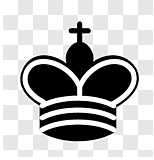
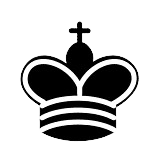
Modificação das Imagens
Trabalho finalizado.

diff --git a/EstudoCSS/xadrez/grid.html b/EstudoCSS/xadrez/grid.html
@@ -8,23 +8,23 @@
 </head>
 <body>
     <div class="principal">
-        <div id="imagemBranca" class="divInterna"><img src="Imagens/img_5terre.jpg">a8</div>
-        <div id="imagemPreta" class="divInterna"><img src="Imagens/img_forest.jpg">b8</div>
-        <div id="imagemBranca" class="divInterna"><img src="Imagens/img_5terre.jpg">c8</div>
-        <div id="imagemPreta" class="divInterna"><img src="Imagens/img_forest.jpg">d8</div>
-        <div id="imagemBranca" class="divInterna"><img src="Imagens/img_5terre.jpg">e8</div>
-        <div id="imagemPreta" class="divInterna"><img src="Imagens/img_forest.jpg">f8</div>
-        <div id="imagemBranca" class="divInterna"><img src="Imagens/img_5terre.jpg">g8</div>
-        <div id="imagemPreta" class="divInterna"><img src="Imagens/img_forest.jpg">h8</div>
+        <div class="divInterna imagemBranca"><img src="Imagens/torrePreta.png"></div>
+        <div class="divInterna imagemPreta"><img src="Imagens/cavaloPreta.png"></div>
+        <div class="divInterna imagemBranca"><img src="Imagens/bispoPreta.png"></div>
+        <div class="divInterna imagemPreta"><img src="Imagens/damaPreta.png"></div>
+        <div class="divInterna imagemBranca"><img src="Imagens/reiPreta.png"></div>
+        <div class="divInterna imagemPreta"><img src="Imagens/bispoPreta.png"></div>
+        <div class="divInterna imagemBranca"><img src="Imagens/cavaloPreta.png"></div>
+        <div class="divInterna imagemPreta"><img src="Imagens/torrePreta.png"></div>
         <div id="externa" class="divInterna">8</div>
-        <div id="preta" class="divInterna">a7</div>
-        <div id="branca" class="divInterna">b7</div>
-        <div id="preta" class="divInterna">c7</div>
-        <div id="branca" class="divInterna">d7</div>
-        <div id="preta" class="divInterna">e7</div>
-        <div id="branca" class="divInterna">f7</div>
-        <div id="preta" class="divInterna">g7</div>
-        <div id="branca" class="divInterna">h7</div>
+        <div class="divInterna imagemPreta"><img src="Imagens/peaoPreta.png"></div>
+        <div class="divInterna imagemBranca"><img src="Imagens/peaoPreta.png"></div>
+        <div class="divInterna imagemPreta"><img src="Imagens/peaoPreta.png"></div>
+        <div class="divInterna imagemBranca"><img src="Imagens/peaoPreta.png"></div>
+        <div class="divInterna imagemPreta"><img src="Imagens/peaoPreta.png"></div>
+        <div class="divInterna imagemBranca"><img src="Imagens/peaoPreta.png"></div>
+        <div class="divInterna imagemPreta"><img src="Imagens/peaoPreta.png"></div>
+        <div class="divInterna imagemBranca"><img src="Imagens/peaoPreta.png"></div>
         <div id="externa" class="divInterna">7</div>
         <div id="branca" class="divInterna">a6</div>
         <div id="preta" class="divInterna">b6</div>
@@ -62,23 +62,23 @@
         <div id="preta" class="divInterna">g3</div>
         <div id="branca" class="divInterna">h3</div>
         <div id="externa" class="divInterna">3</div>
-        <div id="branca" class="divInterna">a2</div>
-        <div id="preta" class="divInterna">b2</div>
-        <div id="branca" class="divInterna">c2</div>
-        <div id="preta" class="divInterna">d2</div>
-        <div id="branca" class="divInterna">e2</div>
-        <div id="preta" class="divInterna">f2</div>
-        <div id="branca" class="divInterna">g2</div>
-        <div id="preta" class="divInterna">h2</div>
+        <div class="divInterna imagemBranca"><img src="Imagens/peaoBranca.png"></div>
+        <div class="divInterna imagemPreta"><img src="Imagens/peaoBranca.png"></div>
+        <div class="divInterna imagemBranca"><img src="Imagens/peaoBranca.png"></div>
+        <div class="divInterna imagemPreta"><img src="Imagens/peaoBranca.png"></div>
+        <div class="divInterna imagemBranca"><img src="Imagens/peaoBranca.png"></div>
+        <div class="divInterna imagemPreta"><img src="Imagens/peaoBranca.png"></div>
+        <div class="divInterna imagemBranca"><img src="Imagens/peaoBranca.png"></div>
+        <div class="divInterna imagemPreta"><img src="Imagens/peaoBranca.png"></div>
         <div id="externa" class="divInterna">2</div>
-        <div id="imagemPreta" class="divInterna"><img src="Imagens/img_5terre.jpg">a1</div>
-        <div id="imagemBranca" class="divInterna"><img src="Imagens/img_forest.jpg">b1</div>
-        <div id="imagemPreta" class="divInterna"><img src="Imagens/img_5terre.jpg">c1</div>
-        <div id="imagemBranca" class="divInterna"><img src="Imagens/img_forest.jpg">d1</div>
-        <div id="imagemPreta" class="divInterna"><img src="Imagens/img_5terre.jpg">e1</div>
-        <div id="imagemBranca" class="divInterna"><img src="Imagens/img_forest.jpg">f1</div>
-        <div id="imagemPreta" class="divInterna"><img src="Imagens/img_5terre.jpg">g1</div>
-        <div id="imagemBranca" class="divInterna"><img src="Imagens/img_forest.jpg">h1</div>
+        <div class="divInterna imagemPreta"><img src="Imagens/torreBranca.png"></div>
+        <div class="divInterna imagemBranca"><img src="Imagens/bispoBranca.png"></div>
+        <div class="divInterna imagemPreta"><img src="Imagens/cavaloBranca.png"></div>
+        <div class="divInterna imagemBranca"><img src="Imagens/damaBranca.png"></div>
+        <div class="divInterna imagemPreta"><img src="Imagens/reiBranca.png"></div>
+        <div class="divInterna imagemBranca"><img src="Imagens/bispoBranca.png"></div>
+        <div class="divInterna imagemPreta"><img src="Imagens/cavaloBranca.png"></div>
+        <div class="divInterna imagemBranca"><img src="Imagens/torreBranca.png"></div>
         <div id="externa" class="divInterna">1</div>
         <div id="externa" class="divInterna">a</div>
         <div id="externa" class="divInterna">b</div>

diff --git a/EstudoCSS/xadrez/grid.css b/EstudoCSS/xadrez/grid.css
@@ -26,32 +26,32 @@ body {
 }
 
 #branca,
-#imagemBranca {
-    background-color: #f0d9b5; 
+.imagemBranca {
+    background-color: #f0d9b5;
 }
 
 #preta,
-#imagemPreta {
+.imagemPreta {
     background-color: #b58863; 
 }
 
 #externa {
-    background-color: #ddd;
-     
+    background-color: #ddd; 
 }
 
-#imagemBranca img,
-#imagemPreta img {
+.imagemBranca img,
+.imagemPreta img
+{
     width: 100%;
     height: 100%;
     object-fit: contain;
-    opacity: 0; 
-    transform: scale(0.8);
+    visibility: hidden; 
     transition: opacity 0.3s ease, transform 0.3s ease;
 }
 
-#imagemBranca:hover img,
-#imagemPreta:hover img {
-    opacity: 1; 
+.imagemBranca:hover img,
+.imagemPreta:hover img
+{
+    visibility: visible; 
     transform: scale(1);
 }
